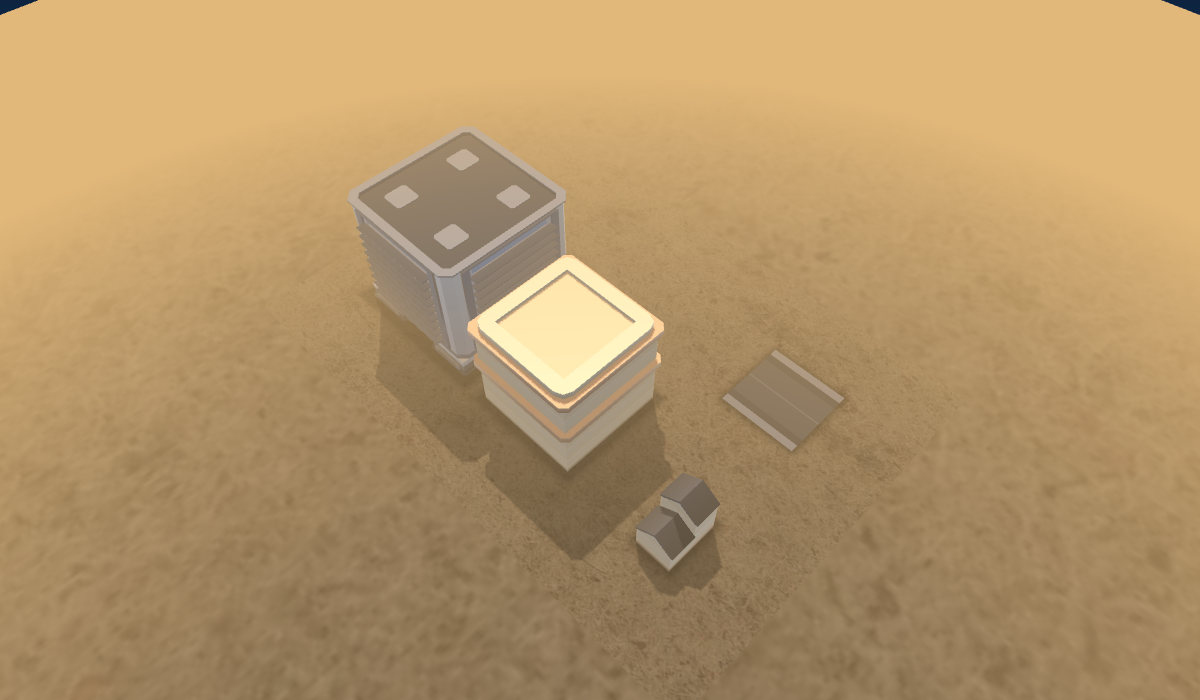
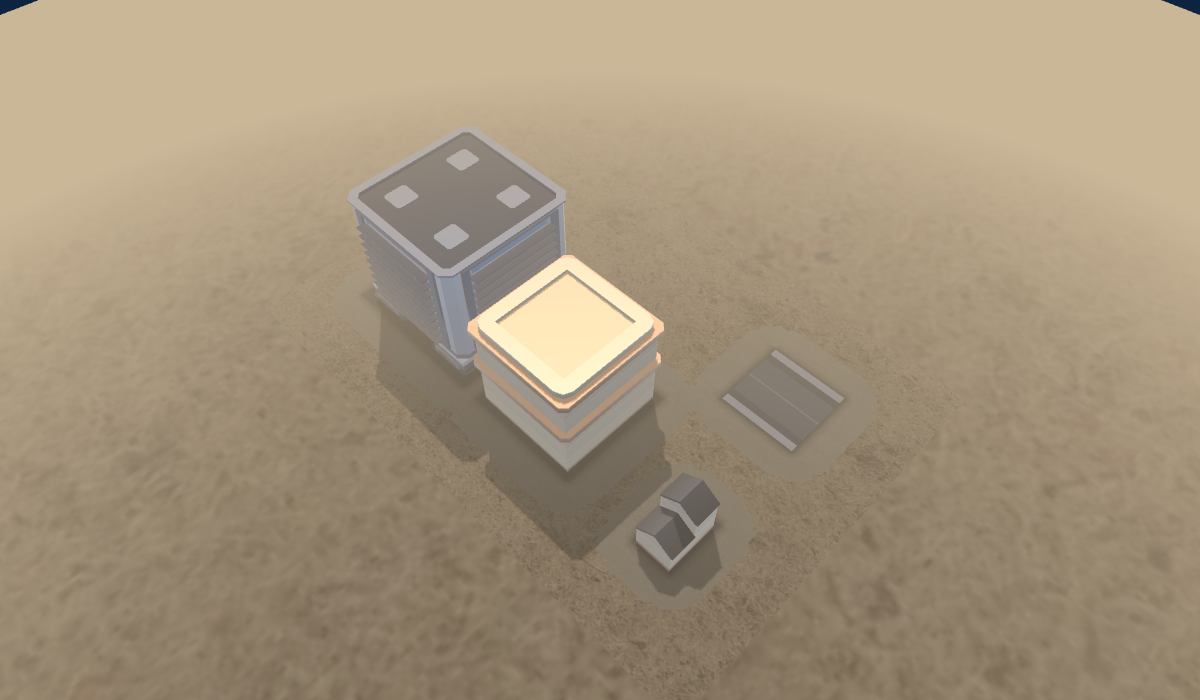
RB5 -- the ground stops reading as desert. docs/specs/REBUILD-CHECKLIST.md, THE CONVERGENCE. This is the declared end of docs/briefs/BLD-2026-09-15- convergence.md's own run.
MEASURED FIRST, NOT ASSUMED: the existing ground texture (manifest's own
"ground-grass") has a real mean RGB of (172,148,121) -- a warm dirt/sand
tone despite its own filename, not green. Darkening it further (4.3's own
existing mechanism, already tested and proven for the building/ground
join) could only ever read as darker dirt, never pavement -- the texture
CHOICE itself, not just its tint, was the actual lever, so retuning the
existing decal mechanism alone would not have addressed what Mark named.

THE MECHANISM: a second, more neutral ground layer, 04-ground-paved.png
-- an ALREADY-vendored, ALREADY CC0-licensed gravel texture (public/
vendor/textures/gravel/, Poly Haven, full provenance already on file
since before this run) added to the array texture via scripts/normalise-
kit-textures.mjs's own established SOURCES pattern. Measured mean RGB
(173,163,150) -- notably more neutral than grass's own warm dirt tone.
look-proof-scene.html's new addGroundLayerAttribute assigns this layer
PER VERTEX -- reusing 4.3's own distanceOutsideFootprint (the SAME
distance function the join decal already computes, not a second,
independent proximity calculation that could disagree with it) -- within
PAVING_RADIUS=6m of any real footprint; earth beyond it. Deliberately NOT
the road pack's own layer for this: N1c already found, by rendering, that
a large area stretched against a sprite-sheet atlas (multiple sub-images
[…]

diff --git a/public/look-proof-scene.html b/public/look-proof-scene.html
@@ -243,6 +243,37 @@ function addConstantDecalAttribute(geometry, value) {
   return geometry;
 }
 
+// RB5 -- "the ground stops reading as desert" (docs/specs/REBUILD-
+// CHECKLIST.md, THE CONVERGENCE; Mark, 2026-09-15, after 13-street-
+// level.png: "buildings in a dust bowl"). MEASURED, not assumed: the
+// existing ground layer (GROUND_FULL.layer, "ground-grass" per the
+// manifest) has a real mean RGB of (172,148,121) -- a warm dirt/sand
+// tone despite its own filename, not green -- so darkening it further
+// (4.3's existing groundDecal mechanism) could never read as PAVEMENT,
+// only as darker dirt. Escalated instead of retuned: a second, more
+// neutral ground texture (04-ground-paved.png, already CC0-vendored
+// gravel, added to the array texture by scripts/normalise-kit-
+// textures.mjs this same item) assigned per-vertex -- PAVING_RADIUS of
+// any real footprint reads as paved ground, everything past it stays
+// earth. Reuses distanceOutsideFootprint (the SAME distance function
+// 4.3's own decal already computes) rather than a second, independent
+// proximity calculation that could disagree with it about where a
+// footprint's own edge actually is.
+const PAVING_RADIUS = 6; // metres -- a plausible street-level paved apron, wider than DECAL_RADIUS's own tight contact-shadow scale
+function addGroundLayerAttribute(geometry, footprints, pavedLayer, earthLayer) {
+  const pos = geometry.getAttribute("position");
+  const count = pos.count;
+  const data = new Float32Array(count);
+  for (let i = 0; i < count; i++) {
+    const x = pos.getX(i), z = pos.getZ(i);
+    let nearest = Infinity;
+    for (const fp of footprints) nearest = Math.min(nearest, distanceOutsideFootprint(x, z, fp.anchor, fp.footprint));
+    data[i] = nearest <= PAVING_RADIUS ? pavedLayer : earthLayer;
+  }
+  geometry.setAttribute("layerIndex", new THREE.BufferAttribute(data, 1));
+  return geometry;
+}
+
 // N1c -- "something at street level ... kerbs, a path" (docs/briefs/
 // BLD-2026-09-15.md). R8, "interesting things happen where different
 // things meet," already covered ONE junction (4.3's join decal, a
@@ -315,11 +346,21 @@ function buildSkyTexture() {
   canvas.width = 1;
   canvas.height = 256;
   const ctx = canvas.getContext("2d");
+  // RB5 -- retuned (docs/specs/REBUILD-CHECKLIST.md, THE CONVERGENCE):
+  // Mark's own read of 13-street-level.png named "a hard pale band at
+  // the horizon" alongside the fog's own warm tint. The old gradient's
+  // last two stops (0.85/1.0) were both a similarly saturated warm tan,
+  // leaving little visible change across that whole span -- a real flat
+  // plateau, not a fade. A third stop at 0.8, less saturated than
+  // either old one, spreads the fade further up the sky instead of
+  // leaving it compressed into the bottom 15%. The final stop matches
+  // look-proof-material.js's own uFogColor EXACTLY (0xe6dccb) so the
+  // ground still fades seamlessly into the sky at the horizon.
   const gradient = ctx.createLinearGradient(0, 0, 0, canvas.height);
   gradient.addColorStop(0, "#0d2340"); // zenith -- deep cool blue
   gradient.addColorStop(0.55, "#3a5f82"); // mid sky
-  gradient.addColorStop(0.85, "#e7c9a0"); // near horizon -- warm, matching LIGHT_DIR
-  gradient.addColorStop(1, "#f2ddb8"); // horizon
+  gradient.addColorStop(0.8, "#c9b99f"); // near horizon -- warm, matching LIGHT_DIR, less saturated than before
+  gradient.addColorStop(1, "#e6dccb"); // horizon -- matches uFogColor exactly
   ctx.fillStyle = gradient;
   ctx.fillRect(0, 0, canvas.width, canvas.height);
   const tex = new THREE.CanvasTexture(canvas);
@@ -610,7 +651,11 @@ async function main() {
     .rotateX(-Math.PI / 2)
     .translate(GROUND.anchor[0] + GROUND.footprint[0] / 2, 0, GROUND.anchor[1] + GROUND.footprint[1] / 2);
   addGroundDecalAttribute(groundGeomRaw, [...PIECES, ...boardFootprintsForDecal]);
-  const groundGeom = addLayerAttribute(groundGeomRaw, GROUND.layer);
+  // RB5 -- read the paved layer's own real index from the manifest
+  // (never hardcoded) -- matches board-renderer.js's own layerForGlb
+  // discipline: one source of truth for "which file is on which layer".
+  const pavedLayerIndex = manifest.layers.find((l) => l.file.includes("ground-paved")).index;
+  const groundGeom = addGroundLayerAttribute(groundGeomRaw, [...PIECES, ...boardFootprintsForDecal], pavedLayerIndex, GROUND.layer);
   // Ground's own UVs tile once across its footprint -- fine for a grass
   // sample texture at this scale, and not what this scene exists to prove.
 

diff --git a/test/lookProofScene.test.ts b/test/lookProofScene.test.ts
@@ -376,3 +376,30 @@ test("(synthetic) the vulnerability: a comment mentioning loadBoard must not sat
   const commentOnly = stripSourceComments("// const { board: reloadedBoard, failures } = loadBoard( used to be here\nconst m = {};\n");
   assert.doesNotMatch(commentOnly, /const \{ board: reloadedBoard, failures \} = loadBoard\(/, "a comment-only mention should not match the real-code pattern once comments are stripped");
 });
+
+// -------------------------------------------------- RB5: the ground material
+test("GATE (RB5): the ground's own layerIndex is computed PER VERTEX (paved near a footprint, earth otherwise), not a single uniform value for the whole plane", () => {
+  assert.match(SCENE_SRC, /function addGroundLayerAttribute\(geometry, footprints, pavedLayer, earthLayer\)/, "addGroundLayerAttribute is missing -- the ground would still be one uniform layer");
+  assert.match(SCENE_SRC, /data\[i\] = nearest <= PAVING_RADIUS \? pavedLayer : earthLayer/, "the per-vertex paved/earth split is not actually wired to the real nearest-footprint distance");
+  assert.match(SCENE_SRC, /const groundGeom = addGroundLayerAttribute\(groundGeomRaw, \[\.\.\.PIECES, \.\.\.boardFootprintsForDecal\], pavedLayerIndex, GROUND\.layer\)/, "the real ground geometry does not use the new per-vertex layer function");
+});
+
+test("GATE (RB5): the paved layer's own index is read from the REAL array-texture manifest, never hardcoded -- board-renderer.js's own layerForGlb discipline, applied here too", () => {
+  assert.match(SCENE_SRC, /const pavedLayerIndex = manifest\.layers\.find\(\(l\) => l\.file\.includes\("ground-paved"\)\)\.index/, "the paved layer's own index is not resolved from the real manifest");
+});
+
+test("RB5: a real, already CC0-licensed, already-vendored gravel texture is the new paving layer -- not a newly-sourced asset, and not the road pack's own sprite-sheet layer (which N1c already found bands under a large stretch)", () => {
+  const normaliseSrc = stripSourceComments(readFileSync(join(PUBLIC, "..", "scripts", "normalise-kit-textures.mjs"), "utf8"));
+  assert.match(normaliseSrc, /name: "ground-paved"/, "scripts/normalise-kit-textures.mjs does not define a ground-paved layer");
+  assert.match(normaliseSrc, /path: "public\/vendor\/textures\/gravel\/diffuse\.webp"/, "the paved layer is not sourced from the already-vendored, already CC0-licensed gravel texture");
+});
+
+test("RB5: the fog colour and the sky's own horizon stop are matched EXACTLY -- N1b's own seamless-fade design, which a fog-only or sky-only retune would silently break", () => {
+  assert.match(MATERIAL_SRC, /uFogColor: \{ value: new THREE\.Color\(0xe6dccb\) \}/, "uFogColor was not retuned, or no longer matches the value this test expects");
+  assert.match(SCENE_SRC, /gradient\.addColorStop\(1, "#e6dccb"\)/, "the sky's own horizon stop does not match uFogColor's real hex value -- N1b's seamless ground-into-sky fade would show a visible seam");
+});
+
+test("(synthetic) the vulnerability: a comment mentioning addGroundLayerAttribute must not satisfy the checks above", () => {
+  const commentOnly = stripSourceComments("// function addGroundLayerAttribute(geometry, footprints, pavedLayer, earthLayer) used to be here\nconst m = {};\n");
+  assert.doesNotMatch(commentOnly, /function addGroundLayerAttribute\(geometry, footprints, pavedLayer, earthLayer\)/, "a comment-only mention should not match the real-code pattern once comments are stripped");
+});

diff --git a/public/look-proof-material.js b/public/look-proof-material.js
@@ -77,7 +77,20 @@ export function createLookProofMaterial(arrayTexture) {
       // the enlarged ground, not at its edge, so what actually disappears
       // into the sky colour is fog fading out ground that is still there,
       // not a visible boundary.
-      uFogColor: { value: new THREE.Color(0xf2ddb8) },
+      // RB5 -- retuned once more (docs/specs/REBUILD-CHECKLIST.md, THE
+      // CONVERGENCE): Mark's own read of 13-street-level.png named "a
+      // warm sand fog tint" alongside "a hard pale band at the horizon"
+      // as part of the overall desert read. 0xf2ddb8 (242,221,184) is a
+      // fully-saturated warm tan; lightened and desaturated toward
+      // 0xe6dccb (230,220,203) -- still warm-leaning (the warm-cool
+      // terminator mechanism, 4.2, already established a warm-lit scene;
+      // a cold fog would contradict it, per N1a's own reasoning), just
+      // less saturated so it reads as atmospheric haze rather than sand.
+      // Matched EXACTLY in buildSkyTexture's own horizon stop
+      // (look-proof-scene.html) so the ground still fades seamlessly
+      // into the sky -- changing one without the other would reintroduce
+      // the visible seam N1b's own far-ground fix eliminated.
+      uFogColor: { value: new THREE.Color(0xe6dccb) },
       uFogNear: { value: 90 },
       uFogFar: { value: 230 },
     },
